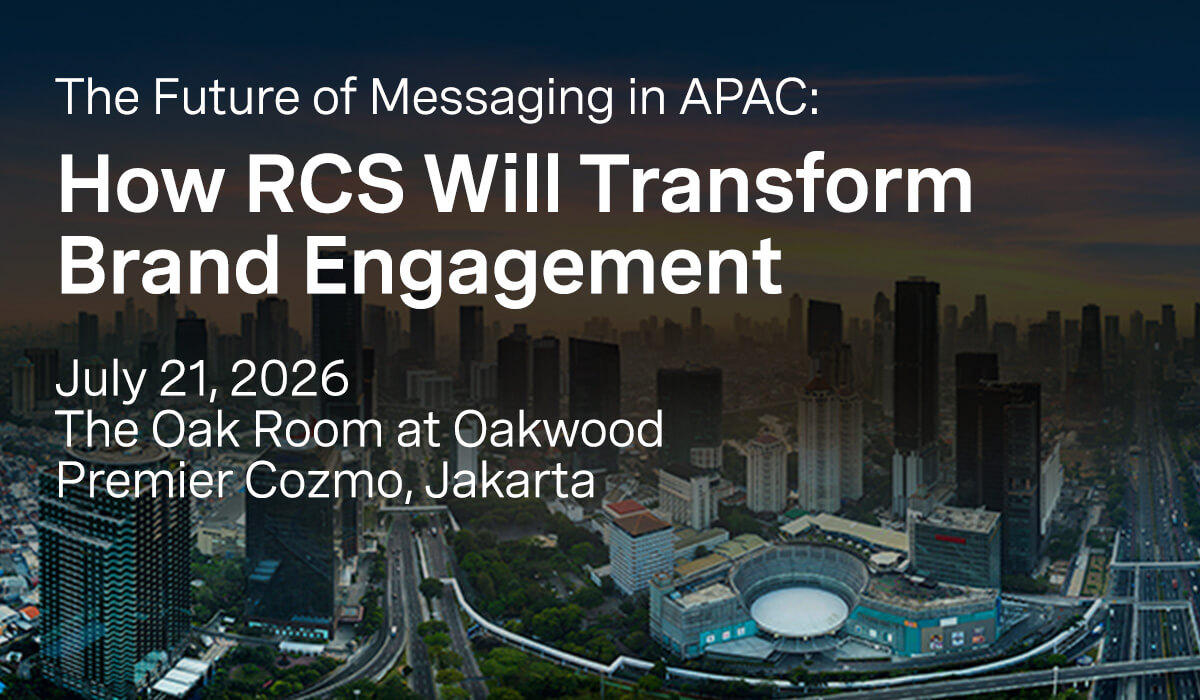
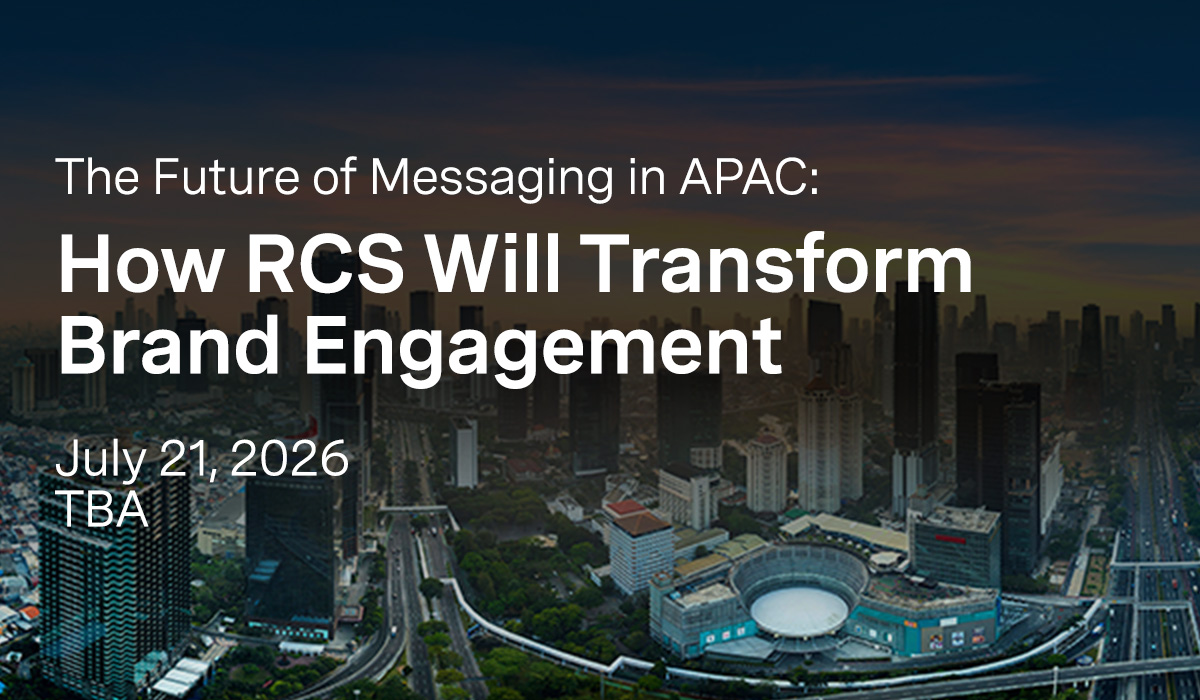
TBC

Changed region(s): [[0.0308, 0.33, 0.8325, 0.75], [0.0308, 0.21, 0.8325, 0.3], [0.0308, 0.09, 0.6783, 0.18]]

diff --git a/index.html b/index.html
@@ -51,4 +51,4 @@
             a[x-apple-data-detectors] { color: inherit !important; text-decoration: none !important; font-size: inherit !important; font-family: inherit !important;vfont-weight: inherit !important; line-height: inherit !important; }
             @media only screen and (max-width:480px) {  
             }
-    </style><meta name="color-scheme" content="light"><meta name="supported-color-schemes" content="light"></head><body class="body-wrapper" style="word-spacing:normal;background-color:#ffffff;"> <div aria-label="Confirmation" aria-roledescription="email" role="article" lang="en" dir="ltr" style="word-spacing:normal;background-color:#ffffff;"> <!--[if mso | IE]><table align="center" border="0" cellpadding="0" cellspacing="0" class="" role="presentation" style="width:600px;" width="600" ><tr><td style="line-height:0px;font-size:0px;mso-line-height-rule:exactly;"><![endif]--> <div style="margin:0px auto;max-width:600px;"> <table align="center" border="0" cellpadding="0" cellspacing="0" role="presentation" style="width:100%;"> <tbody> <tr> <td style="direction:ltr;font-size:0px;padding:0;text-align:center;"> <!--[if mso | IE]><table role="presentation" border="0" cellpadding="0" cellspacing="0"><tr><td class="" style="vertical-align:top;width:600px;" ><![endif]--> <div class="mj-column-per-100 mj-outlook-group-fix" style="font-size:0px;text-align:left;direction:ltr;display:inline-block;vertical-align:top;width:100%;"> <table border="0" cellpadding="0" cellspacing="0" role="presentation" width="100%"> <tbody> <tr> <td style="vertical-align:top;padding:0;"> <table border="0" cellpadding="0" cellspacing="0" role="presentation" width="100%"> <tbody> <tr> <td align="right" style="font-size:0px;padding:10px;word-break:break-word;"> <div style="font-family:Roboto, sans-serif;font-size:12px;line-height:22px;text-align:right;color:#A1A1A1;">No images? <webversion style="color: #A1A1A1; text-decoration: underline; font-family: Roboto, sans-serif; font-size: 12px; line-height: 22px; color: #A1A1A1; text-decoration: underline; cursor:pointer;"> <span style="color: #A1A1A1; text-decoration: underline; font-family: Roboto, sans-serif; font-size: 12px; line-height: 22px; color: #A1A1A1; text-decoration: underline; cursor:pointer;">Click here</span> </webversion></div> </td> </tr> </tbody> </table> </td> </tr> </tbody> </table> </div> <!--[if mso | IE]></td></tr></table><![endif]--> </td> </tr> </tbody> </table> </div> <!--[if mso | IE]></td></tr></table><table align="center" border="0" cellpadding="0" cellspacing="0" class="" role="presentation" style="width:600px;" width="600" ><tr><td style="line-height:0px;font-size:0px;mso-line-height-rule:exactly;"><![endif]--> <div style="margin:0px auto;max-width:600px;"> <table align="center" border="0" cellpadding="0" cellspacing="0" role="presentation" style="width:100%;"> <tbody> <tr> <td style="direction:ltr;font-size:0px;padding:0;text-align:center;"> <!--[if mso | IE]><table role="presentation" border="0" cellpadding="0" cellspacing="0"><tr><td class="" style="vertical-align:top;width:600px;" ><![endif]--> <div class="mj-column-per-100 mj-outlook-group-fix" style="font-size:0px;text-align:left;direction:ltr;display:inline-block;vertical-align:top;width:100%;"> <table border="0" cellpadding="0" cellspacing="0" role="presentation" width="100%"> <tbody> <tr> <td style="vertical-align:top;padding:0;"> <table border="0" cellpadding="0" cellspacing="0" role="presentation" width="100%"> <tbody> <tr> <td align="center" style="font-size:0px;padding:0;word-break:break-word;"> <table border="0" cellpadding="0" cellspacing="0" role="presentation" style="border-collapse:collapse;border-spacing:0px;"> <tbody> <tr> <td style="width:600px;"> <a href="https://indosat.vonagefuturesecure.com/" target="_blank"> <img alt="How RCS will transform Brand engagement" src="images/21Header.jpg" style="border:0;display:block;outline:none;text-decoration:none;height:auto;width:100%;font-size:13px;" width="600" height="auto"> </a> </td> </tr> </tbody> </table> </td> </tr> </tbody> </table> </td> </tr> </tbody> </table> </div> <!--[if mso | IE]></td></tr></table><![endif]--> </td> </tr> </tbody> </table> </div> <!--[if mso | IE]></td></tr></table><table align="center" border="0" cellpadding="0" cellspacing="0" class="" role="presentation" style="width:600px;" width="600" ><tr><td style="line-height:0px;font-size:0px;mso-line-height-rule:exactly;"><![endif]--> <div style="margin:0px auto;max-width:600px;"> <table align="center" border="0" cellpadding="0" cellspacing="0" role="presentation" style="width:100%;"> <tbody> <tr> <td style="direction:ltr;font-size:0px;padding:0;text-align:center;"> <!--[if mso | IE]><table role="presentation" border="0" cellpadding="0" cellspacing="0"><tr><td class="" style="vertical-align:top;width:600px;" ><![endif]--> <div class="mj-column-per-100 mj-outlook-group-fix" style="font-size:0px;text-align:left;direction:ltr;display:inline-block;vertical-align:top;width:100%;"> <table border="0" cellpadding="0" cellspacing="0" role="presentation" width="100%"> <tbody> <tr> <td style="vertical-align:top;padding:60px 30px 60px 30px;"> <table border="0" cellpadding="0" cellspacing="0" role="presentation" width="100%"> <tbody> <tr> <td align="left" style="font-size:0px;padding:0;padding-bottom:30px;word-break:break-word;"> <div style="font-family:Roboto, sans-serif;font-size:16px;line-height:26px;text-align:left;color:#000000;">Dear [firstname,fallback=],</div> </td> </tr> <tr> <td align="left" style="font-size:0px;padding:0;padding-bottom:30px;word-break:break-word;"> <div style="font-family:Roboto, sans-serif;font-size:16px;line-height:26px;text-align:left;color:#000000;">Thank you for registering for <b>The Future of Messaging in APAC: How RCS Will Transform Brand Engagement</b>, hosted by Vonage. We're pleased to confirm your attendance.</div> </td> </tr> <tr> <td align="left" style="font-size:0px;padding:0;padding-bottom:30px;word-break:break-word;"> <div style="font-family:Roboto, sans-serif;font-size:16px;line-height:36px;text-align:left;color:#000000;"><b>Event details:</b><br> 📅 21 July 2026<br> 🕙 10:00 AM - 3:00 PM<br> 📍 <a href="https://www.discoverasr.com/en/oakwood/indonesia/oakwood-premier-cozmo-jakarta/dining" target="_blank" style="color: #000000; text-decoration:underline !important;">Oakroom Restaurant &amp; Bar</a></div> </td> </tr> <tr> <td align="left" style="font-size:0px;padding:0;padding-bottom:30px;word-break:break-word;"> <div style="font-family:Roboto, sans-serif;font-size:16px;line-height:22px;text-align:left;color:#000000;">You'll be joining industry leaders and experts from <b>Vonage</b> and <b>Indosat</b> to explore how RCS is shaping the future of business messaging in APAC. Additional event information, including venue details, will be sent ahead of the event.</div> </td> </tr> <tr> <td align="left" style="font-size:0px;padding:0;padding-bottom:30px;word-break:break-word;"> <div style="font-family:Roboto, sans-serif;font-size:16px;line-height:22px;text-align:left;color:#000000;">We look forward to seeing you there.</div> </td> </tr> <tr> <td align="left" style="font-size:0px;padding:0;word-break:break-word;"> <div style="font-family:Roboto, sans-serif;font-size:16px;line-height:22px;text-align:left;color:#000000;">Kind regards,<br> <b>Vonage</b><br> APAC RCS Event Team</div> </td> </tr> </tbody> </table> </td> </tr> </tbody> </table> </div> <!--[if mso | IE]></td></tr></table><![endif]--> </td> </tr> </tbody> </table> </div> <!--[if mso | IE]></td></tr></table><table align="center" border="0" cellpadding="0" cellspacing="0" class="" role="presentation" style="width:600px;" width="600" ><tr><td style="line-height:0px;font-size:0px;mso-line-height-rule:exactly;"><![endif]--> <div style="margin:0px auto;max-width:600px;"> <table align="center" border="0" cellpadding="0" cellspacing="0" role="presentation" style="width:100%;"> <tbody> <tr> <td style="direction:ltr;font-size:0px;padding:0 30px 60px 30px;text-align:center;"> <!--[if mso | IE]><table role="presentation" border="0" cellpadding="0" cellspacing="0"><tr><td class="" style="vertical-align:top;width:540px;" ><![endif]--> <div class="mj-column-per-100 mj-outlook-group-fix" style="font-size:0px;text-align:left;direction:ltr;display:inline-block;vertical-align:top;width:100%;"> <table border="0" cellpadding="0" cellspacing="0" role="presentation" width="100%"> <tbody> <tr> <td style="vertical-align:top;padding:0;"> <table border="0" cellpadding="0" cellspacing="0" role="presentation" width="100%"> <tbody> <tr> <td align="left" style="font-size:0px;padding:0;word-break:break-word;"> <div style="font-family:Roboto, sans-serif;font-size:12px;line-height:22px;text-align:left;color:#A1A1A1;"><preferences style="color: #A1A1A1; text-decoration: underline; font-family: Roboto, sans-serif; font-size: 12px; line-height: 22px; color: #A1A1A1; text-decoration: underline; cursor:pointer;"> <span style="color: #A1A1A1; text-decoration: underline; font-family: Roboto, sans-serif; font-size: 12px; line-height: 22px; color: #A1A1A1; text-decoration: underline; cursor:pointer;">Preferences</span> </preferences> &nbsp;&nbsp;|&nbsp;&nbsp; <unsubscribe style="color: #A1A1A1; text-decoration: underline; font-family: Roboto, sans-serif; font-size: 12px; line-height: 22px; color: #A1A1A1; text-decoration: underline; cursor:pointer;"> <span style="color: #A1A1A1; text-decoration: underline; font-family: Roboto, sans-serif; font-size: 12px; line-height: 22px; color: #A1A1A1; text-decoration: underline; cursor:pointer;">Unsubscribe</span> </unsubscribe></div> </td> </tr> </tbody> </table> </td> </tr> </tbody> </table> </div> <!--[if mso | IE]></td></tr></table><![endif]--> </td> </tr> </tbody> </table> </div> <!--[if mso | IE]></td></tr></table><![endif]--> </div> </body></html>
+    </style><meta name="color-scheme" content="light"><meta name="supported-color-schemes" content="light"></head><body class="body-wrapper" style="word-spacing:normal;background-color:#ffffff;"> <div aria-label="Confirmation" aria-roledescription="email" role="article" lang="en" dir="ltr" style="word-spacing:normal;background-color:#ffffff;"> <!--[if mso | IE]><table align="center" border="0" cellpadding="0" cellspacing="0" class="" role="presentation" style="width:600px;" width="600" ><tr><td style="line-height:0px;font-size:0px;mso-line-height-rule:exactly;"><![endif]--> <div style="margin:0px auto;max-width:600px;"> <table align="center" border="0" cellpadding="0" cellspacing="0" role="presentation" style="width:100%;"> <tbody> <tr> <td style="direction:ltr;font-size:0px;padding:0;text-align:center;"> <!--[if mso | IE]><table role="presentation" border="0" cellpadding="0" cellspacing="0"><tr><td class="" style="vertical-align:top;width:600px;" ><![endif]--> <div class="mj-column-per-100 mj-outlook-group-fix" style="font-size:0px;text-align:left;direction:ltr;display:inline-block;vertical-align:top;width:100%;"> <table border="0" cellpadding="0" cellspacing="0" role="presentation" width="100%"> <tbody> <tr> <td style="vertical-align:top;padding:0;"> <table border="0" cellpadding="0" cellspacing="0" role="presentation" width="100%"> <tbody> <tr> <td align="right" style="font-size:0px;padding:10px;word-break:break-word;"> <div style="font-family:Roboto, sans-serif;font-size:12px;line-height:22px;text-align:right;color:#A1A1A1;">No images? <webversion style="color: #A1A1A1; text-decoration: underline; font-family: Roboto, sans-serif; font-size: 12px; line-height: 22px; color: #A1A1A1; text-decoration: underline; cursor:pointer;"> <span style="color: #A1A1A1; text-decoration: underline; font-family: Roboto, sans-serif; font-size: 12px; line-height: 22px; color: #A1A1A1; text-decoration: underline; cursor:pointer;">Click here</span> </webversion></div> </td> </tr> </tbody> </table> </td> </tr> </tbody> </table> </div> <!--[if mso | IE]></td></tr></table><![endif]--> </td> </tr> </tbody> </table> </div> <!--[if mso | IE]></td></tr></table><table align="center" border="0" cellpadding="0" cellspacing="0" class="" role="presentation" style="width:600px;" width="600" ><tr><td style="line-height:0px;font-size:0px;mso-line-height-rule:exactly;"><![endif]--> <div style="margin:0px auto;max-width:600px;"> <table align="center" border="0" cellpadding="0" cellspacing="0" role="presentation" style="width:100%;"> <tbody> <tr> <td style="direction:ltr;font-size:0px;padding:0;text-align:center;"> <!--[if mso | IE]><table role="presentation" border="0" cellpadding="0" cellspacing="0"><tr><td class="" style="vertical-align:top;width:600px;" ><![endif]--> <div class="mj-column-per-100 mj-outlook-group-fix" style="font-size:0px;text-align:left;direction:ltr;display:inline-block;vertical-align:top;width:100%;"> <table border="0" cellpadding="0" cellspacing="0" role="presentation" width="100%"> <tbody> <tr> <td style="vertical-align:top;padding:0;"> <table border="0" cellpadding="0" cellspacing="0" role="presentation" width="100%"> <tbody> <tr> <td align="center" style="font-size:0px;padding:0;word-break:break-word;"> <table border="0" cellpadding="0" cellspacing="0" role="presentation" style="border-collapse:collapse;border-spacing:0px;"> <tbody> <tr> <td style="width:600px;"> <a href="https://indosat.vonagefuturesecure.com/" target="_blank"> <img alt="How RCS will transform Brand engagement" src="images/21Header.jpg" style="border:0;display:block;outline:none;text-decoration:none;height:auto;width:100%;font-size:13px;" width="600" height="auto"> </a> </td> </tr> </tbody> </table> </td> </tr> </tbody> </table> </td> </tr> </tbody> </table> </div> <!--[if mso | IE]></td></tr></table><![endif]--> </td> </tr> </tbody> </table> </div> <!--[if mso | IE]></td></tr></table><table align="center" border="0" cellpadding="0" cellspacing="0" class="" role="presentation" style="width:600px;" width="600" ><tr><td style="line-height:0px;font-size:0px;mso-line-height-rule:exactly;"><![endif]--> <div style="margin:0px auto;max-width:600px;"> <table align="center" border="0" cellpadding="0" cellspacing="0" role="presentation" style="width:100%;"> <tbody> <tr> <td style="direction:ltr;font-size:0px;padding:0;text-align:center;"> <!--[if mso | IE]><table role="presentation" border="0" cellpadding="0" cellspacing="0"><tr><td class="" style="vertical-align:top;width:600px;" ><![endif]--> <div class="mj-column-per-100 mj-outlook-group-fix" style="font-size:0px;text-align:left;direction:ltr;display:inline-block;vertical-align:top;width:100%;"> <table border="0" cellpadding="0" cellspacing="0" role="presentation" width="100%"> <tbody> <tr> <td style="vertical-align:top;padding:60px 30px 60px 30px;"> <table border="0" cellpadding="0" cellspacing="0" role="presentation" width="100%"> <tbody> <tr> <td align="left" style="font-size:0px;padding:0;padding-bottom:30px;word-break:break-word;"> <div style="font-family:Roboto, sans-serif;font-size:16px;line-height:26px;text-align:left;color:#000000;">Dear [firstname,fallback=],</div> </td> </tr> <tr> <td align="left" style="font-size:0px;padding:0;padding-bottom:30px;word-break:break-word;"> <div style="font-family:Roboto, sans-serif;font-size:16px;line-height:26px;text-align:left;color:#000000;">Thank you for registering for <b>The Future of Messaging in APAC: How RCS Will Transform Brand Engagement</b>, hosted by Vonage. We're pleased to confirm your attendance.</div> </td> </tr> <tr> <td align="left" style="font-size:0px;padding:0;padding-bottom:30px;word-break:break-word;"> <div style="font-family:Roboto, sans-serif;font-size:16px;line-height:36px;text-align:left;color:#000000;"><b>Event details:</b><br> 📅 21 July 2026<br> 🕙 10:00 AM - 3:00 PM<br> 📍 TBC</div> </td> </tr> <tr> <td align="left" style="font-size:0px;padding:0;padding-bottom:30px;word-break:break-word;"> <div style="font-family:Roboto, sans-serif;font-size:16px;line-height:22px;text-align:left;color:#000000;">You'll be joining industry leaders and experts from <b>Vonage</b> and <b>Indosat</b> to explore how RCS is shaping the future of business messaging in APAC. Additional event information, including venue details, will be sent ahead of the event.</div> </td> </tr> <tr> <td align="left" style="font-size:0px;padding:0;padding-bottom:30px;word-break:break-word;"> <div style="font-family:Roboto, sans-serif;font-size:16px;line-height:22px;text-align:left;color:#000000;">We look forward to seeing you there.</div> </td> </tr> <tr> <td align="left" style="font-size:0px;padding:0;word-break:break-word;"> <div style="font-family:Roboto, sans-serif;font-size:16px;line-height:22px;text-align:left;color:#000000;">Kind regards,<br> <b>Vonage</b><br> APAC RCS Event Team</div> </td> </tr> </tbody> </table> </td> </tr> </tbody> </table> </div> <!--[if mso | IE]></td></tr></table><![endif]--> </td> </tr> </tbody> </table> </div> <!--[if mso | IE]></td></tr></table><table align="center" border="0" cellpadding="0" cellspacing="0" class="" role="presentation" style="width:600px;" width="600" ><tr><td style="line-height:0px;font-size:0px;mso-line-height-rule:exactly;"><![endif]--> <div style="margin:0px auto;max-width:600px;"> <table align="center" border="0" cellpadding="0" cellspacing="0" role="presentation" style="width:100%;"> <tbody> <tr> <td style="direction:ltr;font-size:0px;padding:0 30px 60px 30px;text-align:center;"> <!--[if mso | IE]><table role="presentation" border="0" cellpadding="0" cellspacing="0"><tr><td class="" style="vertical-align:top;width:540px;" ><![endif]--> <div class="mj-column-per-100 mj-outlook-group-fix" style="font-size:0px;text-align:left;direction:ltr;display:inline-block;vertical-align:top;width:100%;"> <table border="0" cellpadding="0" cellspacing="0" role="presentation" width="100%"> <tbody> <tr> <td style="vertical-align:top;padding:0;"> <table border="0" cellpadding="0" cellspacing="0" role="presentation" width="100%"> <tbody> <tr> <td align="left" style="font-size:0px;padding:0;word-break:break-word;"> <div style="font-family:Roboto, sans-serif;font-size:12px;line-height:22px;text-align:left;color:#A1A1A1;"><preferences style="color: #A1A1A1; text-decoration: underline; font-family: Roboto, sans-serif; font-size: 12px; line-height: 22px; color: #A1A1A1; text-decoration: underline; cursor:pointer;"> <span style="color: #A1A1A1; text-decoration: underline; font-family: Roboto, sans-serif; font-size: 12px; line-height: 22px; color: #A1A1A1; text-decoration: underline; cursor:pointer;">Preferences</span> </preferences> &nbsp;&nbsp;|&nbsp;&nbsp; <unsubscribe style="color: #A1A1A1; text-decoration: underline; font-family: Roboto, sans-serif; font-size: 12px; line-height: 22px; color: #A1A1A1; text-decoration: underline; cursor:pointer;"> <span style="color: #A1A1A1; text-decoration: underline; font-family: Roboto, sans-serif; font-size: 12px; line-height: 22px; color: #A1A1A1; text-decoration: underline; cursor:pointer;">Unsubscribe</span> </unsubscribe></div> </td> </tr> </tbody> </table> </td> </tr> </tbody> </table> </div> <!--[if mso | IE]></td></tr></table><![endif]--> </td> </tr> </tbody> </table> </div> <!--[if mso | IE]></td></tr></table><![endif]--> </div> </body></html>